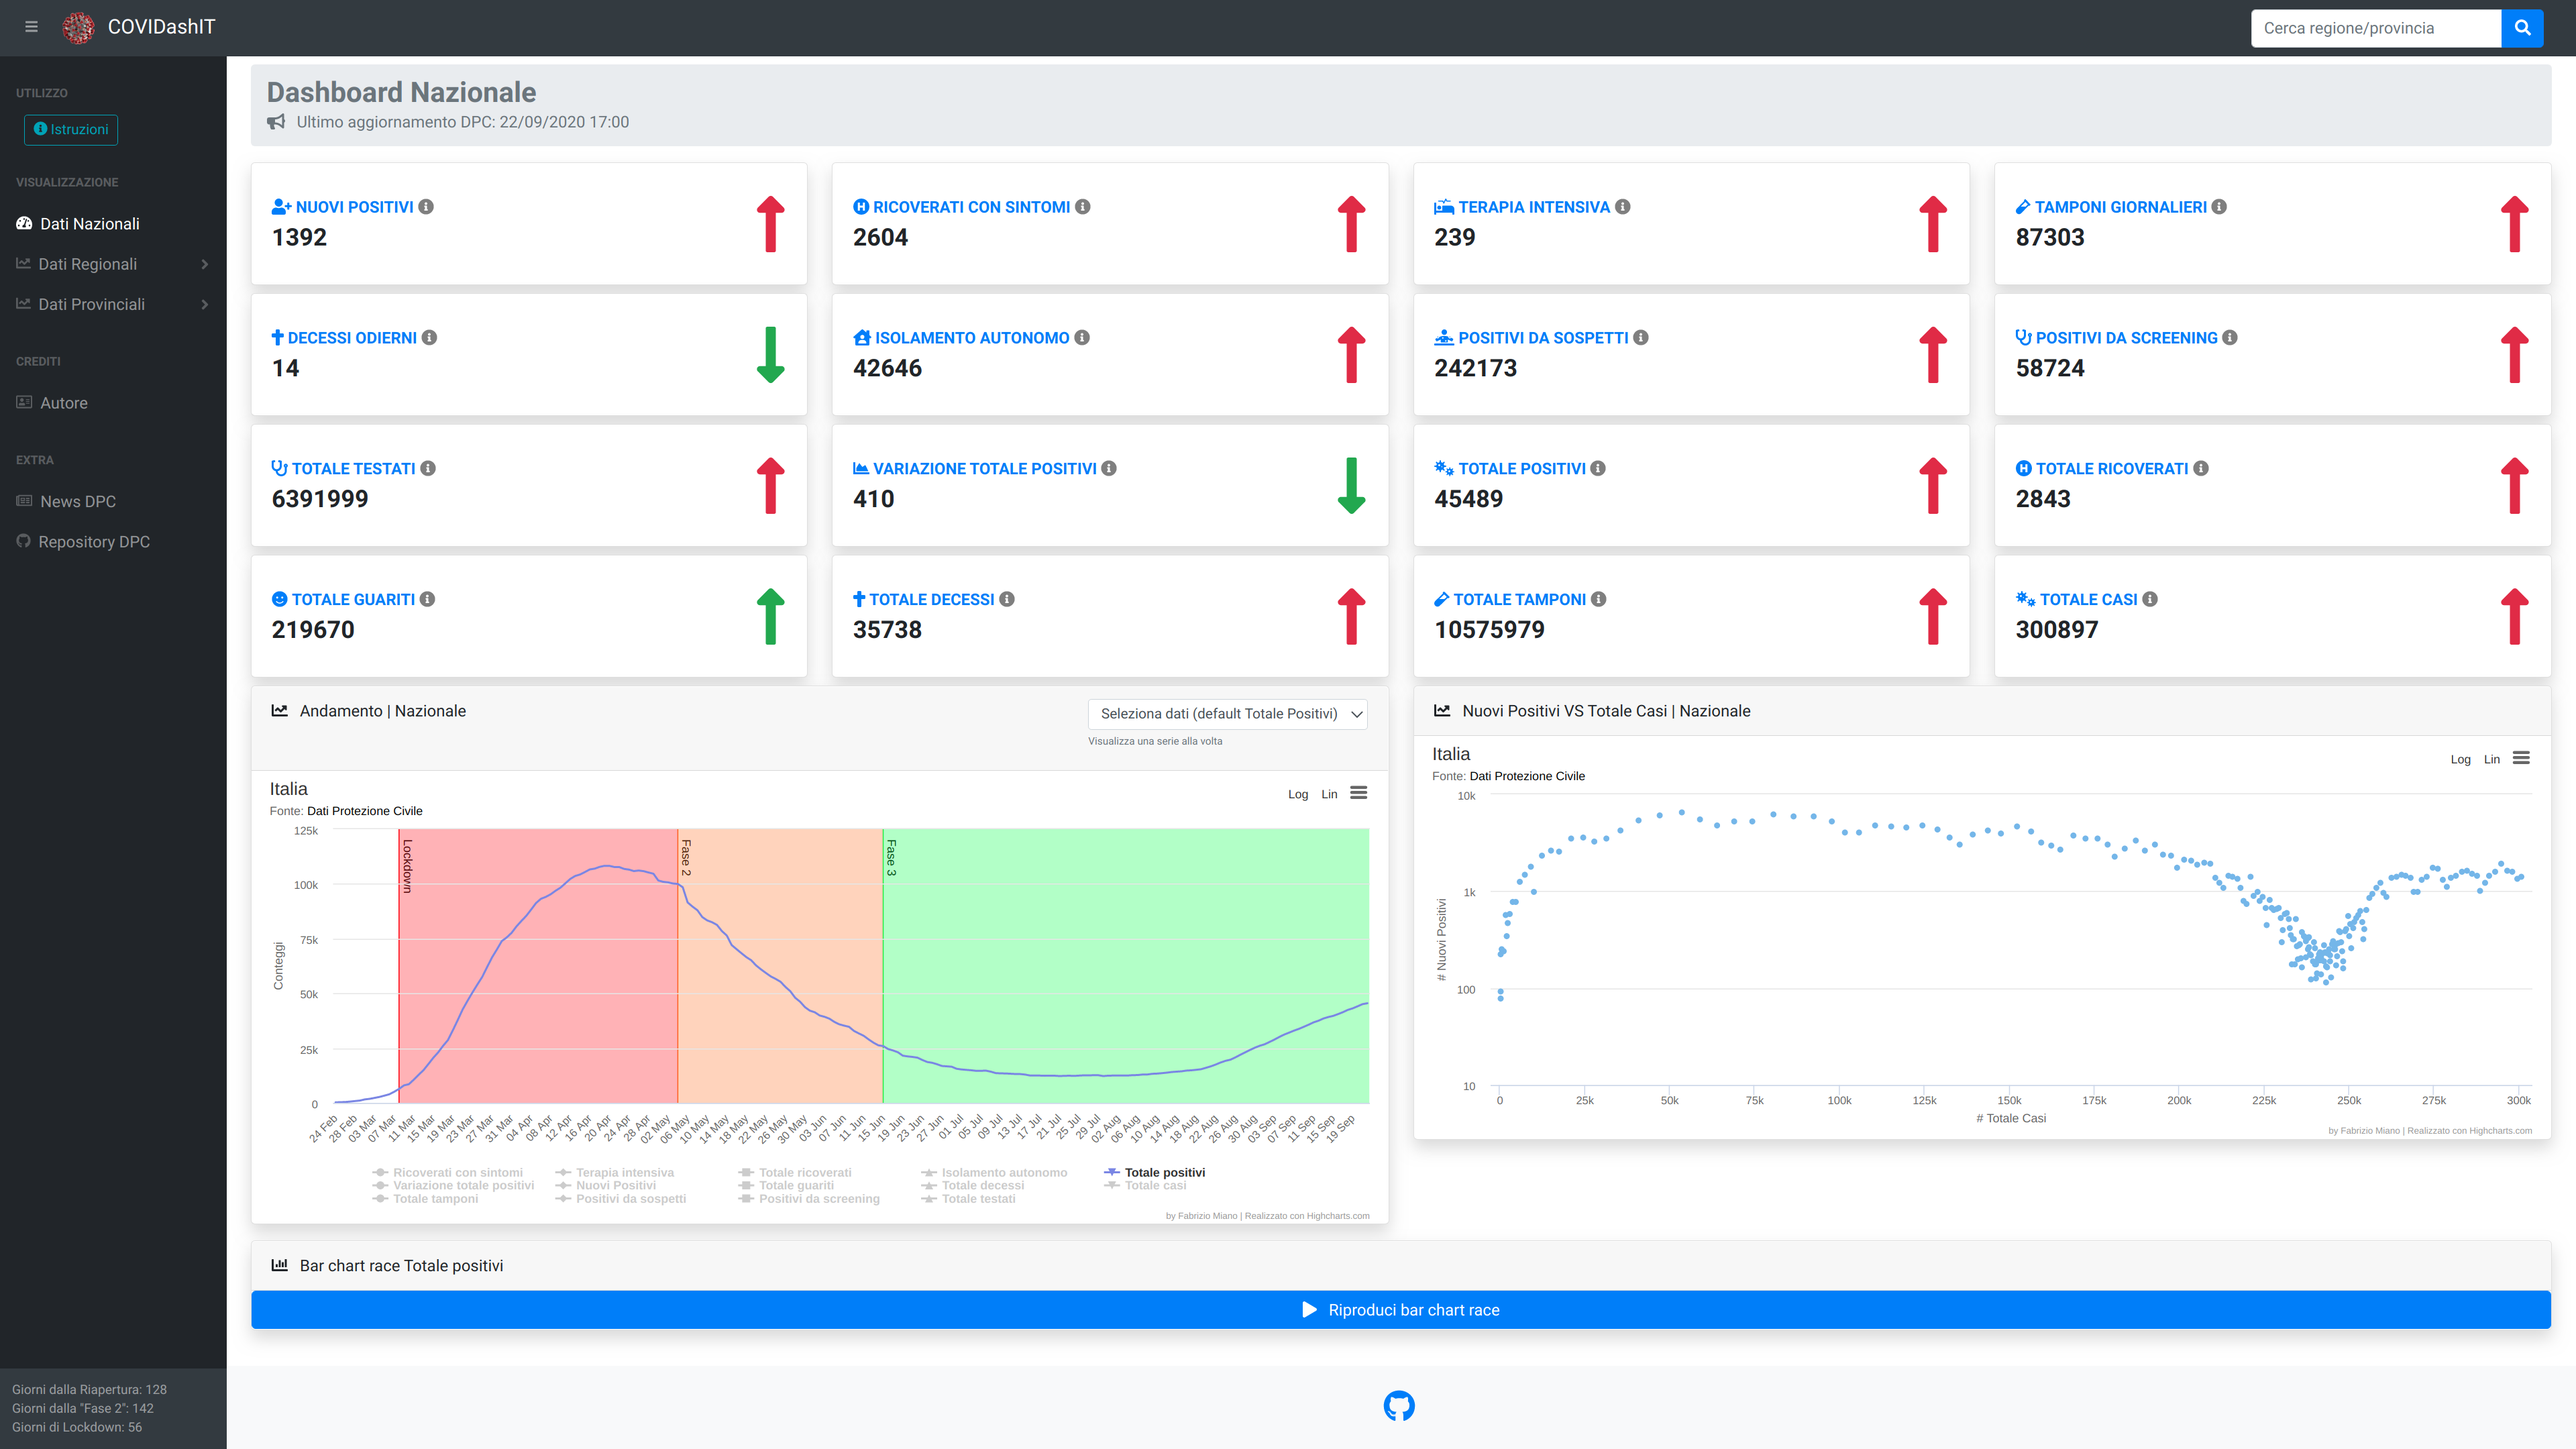
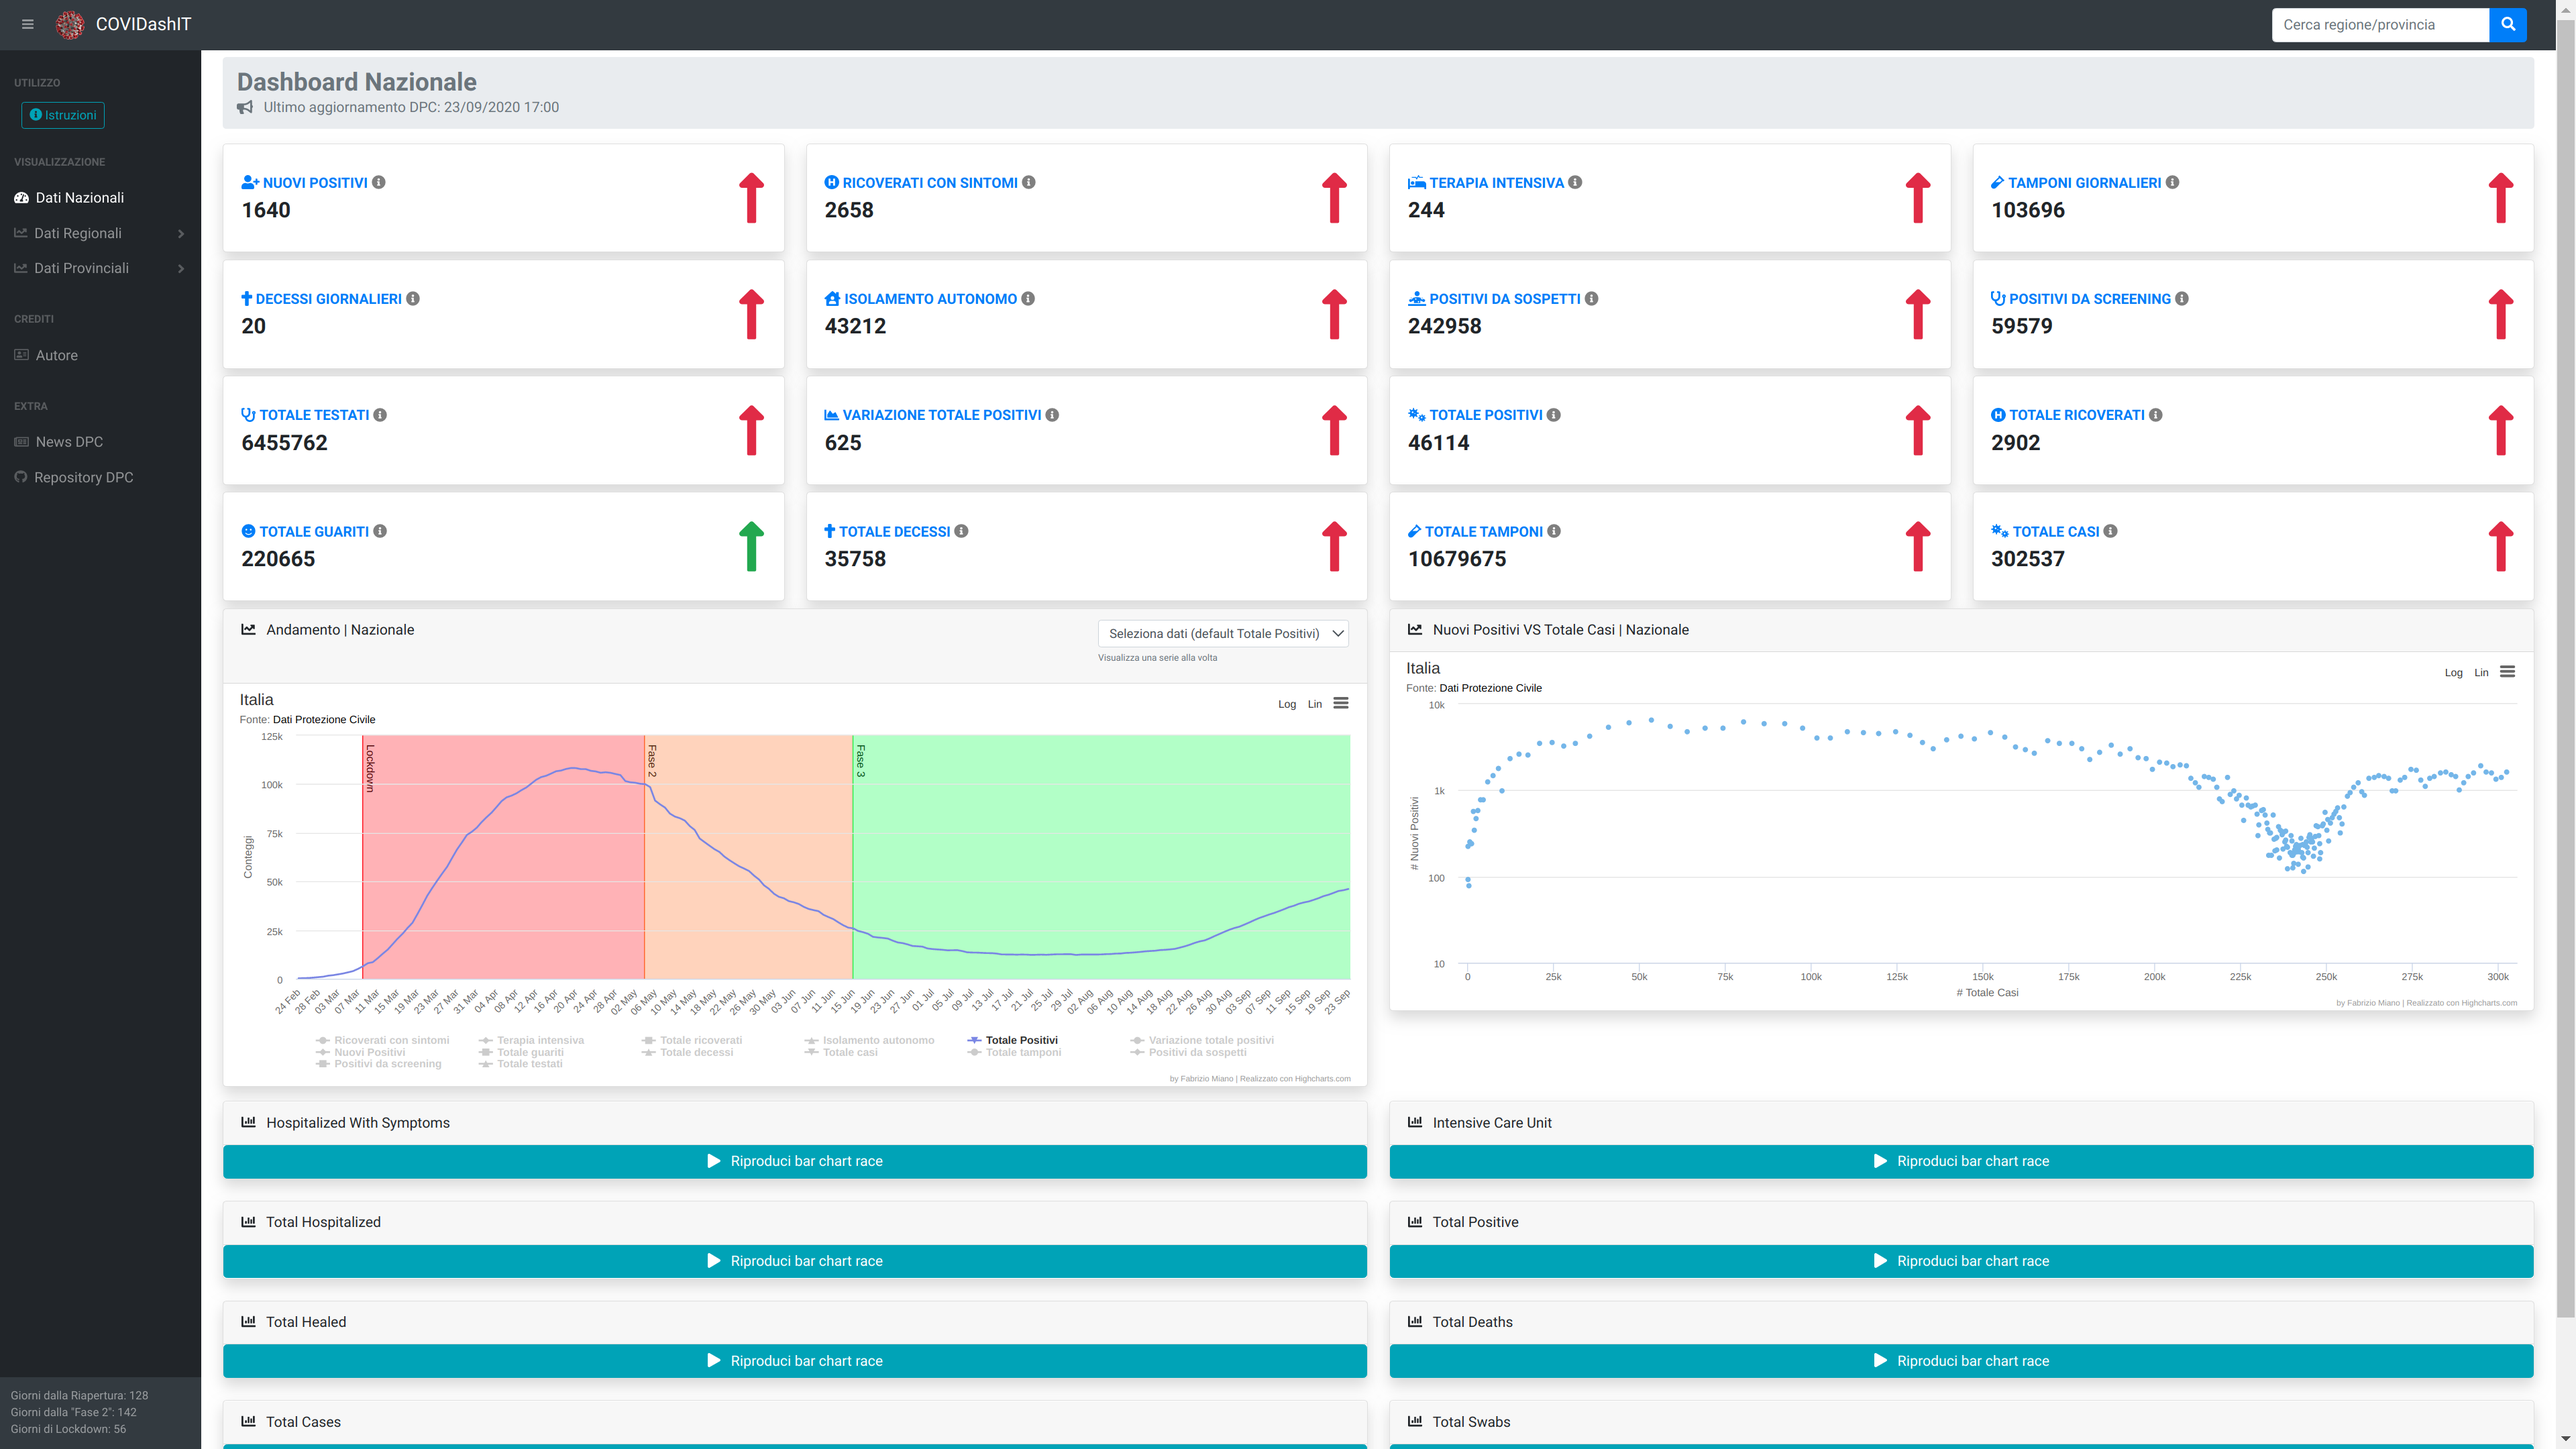
v1.3.0: refactor; handle no-data possibility

Changed region(s): [[0.0, 0.0, 1.0, 1.0], [0.5625, 0.5273, 0.625, 0.5583], [0.8438, 0.5273, 0.875, 0.5583]]

diff --git a/app/templates/dashboard/barChartRace.html b/app/templates/dashboard/barChartRace.html
@@ -1,22 +1,28 @@
 <!-- bar chart race -->
 <div class="row">
-    <div class="col-xl-12">
-        <div class="card border-left-primary shadow mb-3" id="bcrCard">
-            <div class="card-header"><i class="fas fa-chart-bar mr-2"></i>
-                {{ _("Total positive bar chart race") }}
-            </div>
-            <div class="alert alert-success small" role="alert" id="bcrts" hidden>
-                <i class="fas fa-bullhorn mr-2"></i>
-                {{ _("Latest Update:") }}
-            </div>
+    {% for var in bcr_types %}
+        <div class="col-xl-6 col-md-6 mb-2">
+            <div class="card border-left-primary shadow mb-3" id="bcrCard{{ var }}">
+                <div class="card-header"><i class="fas fa-chart-bar mr-2"></i>
+                    {{ gettext(vars_config[var]["title"]) }}
+                </div>
+                <div class="alert alert-success small" role="alert" id="bcrts{{ var }}"
+                     hidden>
+                    <i class="fas fa-bullhorn mr-2"></i>
+                    {{ _("Latest Update:") }}
+                </div>
 
-            <button type="button" class="btn btn-primary" id="loadBCRButton" onclick="playBCR()">
-                <i class="fas fa-play mr-2"></i> {{ _("Play bar-chart race") }}
-            </button>
-            <button class="btn btn-primary" type="button" id="loadBCRButtonLoader" disabled hidden>
-                <span class="spinner-border spinner-border-sm" role="status" aria-hidden="true"></span>
-                {{ _("Loading...") }}
-            </button>
+                <button type="buttON" class="btn btn-info"
+                        id="loadBCRButton{{ var }}" onclick="playBCR('{{ var }}')">
+                    <i class="fas fa-play mr-2"></i> {{ _("Play bar-chart race") }}
+                </button>
+                <button class="btn btn-primary" type="button"
+                        id="loadBCRButtonLoader{{ var }}" disabled hidden>
+                    <span class="spinner-border spinner-border-sm"
+                          role="status" aria-hidden="true"></span>
+                    {{ _("Loading...") }}
+                </button>
+            </div>
         </div>
-    </div>
+    {% endfor %}
 </div>

diff --git a/app/static/js/charts.js b/app/static/js/charts.js
@@ -132,32 +132,36 @@ function dataTypeSelector(value) {
     }
 }
 
-
-function playBCR() {
-    $('#loadBCRButtonLoader').removeAttr('hidden')
-    $('#loadBCRButton').attr('hidden', true)
+function playBCR(bcr_id) {
+    $('#loadBCRButtonLoader' + bcr_id).removeAttr('hidden')
+    $('#loadBCRButton' + bcr_id).attr('hidden', true)
     $.ajax({
-        url: '/api/bcr',
+        url: '/api/bcr/' + bcr_id,
         method: 'get',
         success: function (response) {
-            $("#loadBCRButtonLoader").attr("hidden", true)
-            $("#bcrCard").append(response["html"])
-            $("#bcrts").append(response["ts"]).removeAttr('hidden')
+            console.log(response)
+            if (response["status"] === "ok") {
+                $("#bcrCard" + bcr_id).append(response["html_str"])
+                $("#bcrts" + bcr_id).append(response["ts"]).removeAttr('hidden')
+            }
+            else {
+                $("#bcrCard" + bcr_id).append(response["error"])
+                $("#bcrts" + bcr_id).append(response["error"]).removeAttr('hidden')
+            }
+            $("#loadBCRButtonLoader" + bcr_id).attr("hidden", true)
         }
     })
 }
 
-let totPosStrIT = "Totale positivi";
+let totPosStrIT = "Totale Positivi";
 let totPosStrEN = "Total Positive";
 (function ($) {
     "use strict";
     $(function () {
         for (let i = 0; i < series.length; i++) {
-            console.log(series[i].name)
             if (series[i].name === totPosStrEN || series[i].name === totPosStrIT) {
                 chartTrend.series[i].show()
             }
         }
     })
-
 })(jQuery);

diff --git a/app/api/endpoints.py b/app/api/endpoints.py
@@ -1,21 +1,42 @@
-from flask import jsonify
+from flask import jsonify, current_app
 
 from app.api import api
 from config import COLLECTION_NAME, BARCHART_RACE_QUERY, UPDATE_FMT
 
+import json
+from bson import ObjectId
 
-@api.route("/bcr")
-def get_bcr():
+
+class JSONEncoder(json.JSONEncoder):
+    def default(self, o):
+        if isinstance(o, ObjectId):
+            return str(o)
+        return json.JSONEncoder.default(self, o)
+
+
+@api.route("/bcr/<string:var_name>")
+def get_bcr(var_name):
     """
     Bar-chart race API. Return a JSON with fields "html" and "ts".
     The former contains the HTML code of the bar-chart race video,
     the latter the timestamp at which the bar-chart race was created on the DB
+    :param: var_name: str
     :return: flask.jsonify()
     """
     from app import mongo
-    bcr_data = next(
-        mongo.db[COLLECTION_NAME].find(BARCHART_RACE_QUERY)
-    )
-    bcr_html = bcr_data["html_str"]
-    bcr_ts = bcr_data["ts"].strftime(UPDATE_FMT)
-    return jsonify(html=bcr_html, ts=bcr_ts)
+    data = {}
+    BARCHART_RACE_QUERY["name"] = var_name
+    try:
+        current_app.logger.info("Getting {} bcr from mongo".format(var_name))
+        data = next(
+            mongo.db[COLLECTION_NAME].find(BARCHART_RACE_QUERY)
+        )
+        data["ts"] = data["ts"].strftime(UPDATE_FMT)
+        data["status"] = "ok"
+        data = json.loads(JSONEncoder().encode(data))
+    except StopIteration:
+        err_msg = "No {} bcr data in mongo".format(var_name)
+        current_app.logger.error(err_msg)
+        data["status"] = "ko"
+        data["error"] = err_msg
+    return jsonify(**data)

diff --git a/config.py b/config.py
@@ -1,6 +1,5 @@
 import datetime as dt
 import os
-from typing import List, Any, Union
 
 from flask_babel import gettext
 
@@ -244,7 +243,6 @@ URL_PROVINCIAL_DATA = os.path.join(BASE_URL_DATA, PROVINCIAL_DATE_FILE)
 URL_LATEST_PROVINCIAL_DATA = os.path.join(
     BASE_URL_DATA, LATEST_PROVINCIAL_DATE_FILE
 )
-BARCHART_RACE_VAR = "totale_positivi"
 #  The order here matters as it will be reflected in the webpage
 CARD_TYPES = [
     "nuovi_positivi",
@@ -323,9 +321,20 @@ DATA_TO_FRONTEND = {
 TRANSLATION_DIRNAME = "translations"
 MONGO_URI = os.environ["MONGO_URI"]
 COLLECTION_NAME = os.environ["COLLECTION_NAME"]
-BARCHART_RACE_QUERY = {"name": "barchart_race"}
+BARCHART_RACE_QUERY = {"name": ""}
 DATA_SERIES = [
     VARS_CONFIG[key]["title"]
     for key in VARS_CONFIG
     if key not in CUSTOM_CARDS
+]
+#  The order here matters as it will be reflected in the webpage
+BCR_TYPES = [
+    'ricoverati_con_sintomi',
+    'terapia_intensiva',
+    'totale_ospedalizzati',
+    'totale_positivi',
+    'dimessi_guariti',
+    'deceduti',
+    'totale_casi',
+    'tamponi'
 ]

diff --git a/app/ui/dashboard.py b/app/ui/dashboard.py
@@ -10,7 +10,7 @@ from app.datatools import (
     get_latest_provincial_data, get_provincial_breakdown
 )
 from app.ui import dashboard
-from config import REGIONS, PROVINCES, DATA_SERIES, VARS_CONFIG
+from config import REGIONS, PROVINCES, DATA_SERIES, VARS_CONFIG, BCR_TYPES
 
 
 @dashboard.route("/national")
@@ -37,6 +37,7 @@ def national_view():
         data_series=DATA_SERIES,
         breakdown=breakdown,
         vars_config=VARS_CONFIG,
+        bcr_types=BCR_TYPES,
         scatterplot_series={
             "name": gettext("New Positive VS Total Cases"),
             "data": EXP_STATUS
@@ -75,6 +76,7 @@ def regional_or_provincial_view(area):
         data_series=DATA_SERIES,
         breakdown=breakdown,
         vars_config=VARS_CONFIG,
+        bcr_types=BCR_TYPES,
         scatterplot_series={
             "name": gettext("New Positive VS Total Cases"),
             "data": EXP_STATUS

diff --git a/README_IT.md b/README_IT.md
@@ -23,8 +23,9 @@ Il back-end riceve i dati e li serve al frontend per le cards e la chart.
 Non uso alcun database poiché per il momento, e speriamo neance in futuro, non si parla di molti dati.
 
 Il front-end sta in `covidashit/templates` ed usa JavaScript per costruire la chart che è 
-creata con [HighCharts](https://www.highcharts.com/). Inoltre, ogni giorno alle 19 viene 
-lanciato un cron job che crea una bar chart race.
+creata con [HighCharts](https://www.highcharts.com/). Inoltre, ogni giorno alle un cron job schedulato
+crea le bar chart race visibili nella dashboard lanciando uno script di [BCR2Mongo](https://github.com/fabriziomiano/barchartrace2mongo).
+
 Grazie agli sviluppatori di [bar-chart-race](https://www.dexplo.org/bar_chart_race/).
 
 #### Setup locale
@@ -51,6 +52,10 @@ $ docker run --name covidashit -d -p 80:5000 covidashit
 ```
 
 Flask sarà in ascolto all'url [http://127.0.0.1](http://127.0.0.1) 
+
+##### Additional note
+
+L'app puo' essere pubblicata su Heroku sia come docker container che semplicemente utilizzando il Procfile.
 
 ## Donazione
 

diff --git a/README.md b/README.md
@@ -25,7 +25,9 @@ I'm not using any db as, luckily enough, there isn't too much data to store, and
 
 The front-end is under `covidashit/templates` and it uses a simple JS to create
 the chart object, which is built using [HighCharts](https://www.highcharts.com/).
-Additionally, a bar chart race video is produced every day at 7PM with a cron job scheduled. 
+Additionally, bar chart races are produced every day with a scheduled cron job that runs a script from 
+[BCR2Mongo](https://github.com/fabriziomiano/barchartrace2mongo).  
+
 Thanks to the [bar-chart-race](https://www.dexplo.org/bar_chart_race/) library maintainers.
 
 #### Setup a local version
@@ -51,7 +53,13 @@ $ docker build --tag covidashit:latest .
 $ docker run --name covidashit -d -p 80:5000 covidashit
 ```
 
-Flask will be listening at [http://127.0.0.1](http://127.0.0.1)
+The docker container will be listening at [http://127.0.0.1](http://127.0.0.1)
+
+##### Additional note
+
+The app can be deployed on Heroku either as a docker container or simply using the Procfile
+
+
 
 ## Donation
 
